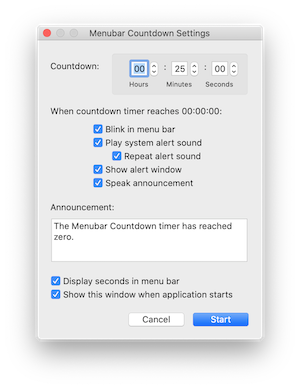
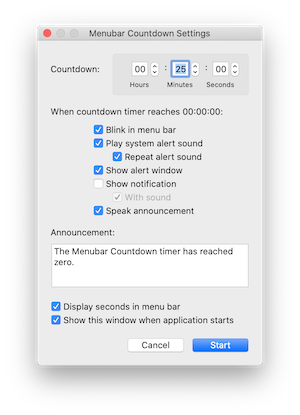
Update README.md and screenshot for new notification options

diff --git a/README.md b/README.md
@@ -54,13 +54,14 @@ SOFTWARE OR THE USE OR OTHER DEALINGS IN THE SOFTWARE.
 
 v2.0 (work in progress)
 
-- Updated for macOS 10.14.4 and newer
-- Code translated to Swift
-- When timer is not active, menubar displays small hourglass icon rather than 00:00:00, to conserve menubar space
-- Added option to repeat alert sound after timer expiration, until it is acknowledged
-- Added option to blink 00:00:00 in the menu bar after timer expiration, until it is acknowledged
-- Added Pause menu item
-- Supports dark mode
+- Updated for macOS 10.14.4 and newer.
+- Supports dark mode.
+- When timer is not active, menubar displays small hourglass icon rather than 00:00:00, to conserve menubar space.
+- Added option to repeat alert sound after timer expiration, until it is acknowledged.
+- Added option to blink 00:00:00 in the menu bar after timer expiration, until it is acknowledged.
+- Added option to show a notification alert in Notification Center.
+- Added Pause and Resume menu items.
+- Translated code to Swift.
 
 v1.3 (2019/10/21)
 
